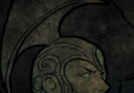
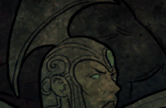
POE1 修正：只買當下最低價、payload 錯誤訊息分類、Win10 影像樣本更新
- pick_cheapest()：只鎖 rows[0]（sort 是 price asc，那就是當下最低價），
  已售出／已試過就結束本輪重新 search，不往下找第二便宜的
  （前幾筆若都被買走，往下找可能從 6c 變成 8c）
- get_payload() 失敗訊息分四類（連不上／逾時／非 200／payloadData 空），
  明確區分「自架 payload 服務掛了」與「查詢設定錯了」，
  不再只丟一串 traceback 讓人誤判成官方 API 被擋或腳本壞掉
- 官方 GET API 備援先註解保留、不啟用，維持 getPayloadByUrlV2 為唯一來源
- whisper 回 400 "must be in-game" 時直接中止，不再帶著同樣的錯誤空轉 40 輪
- 「完成一次購買」改為 buy_flow 成功才印（原本等 UI 逾時也會印，訊息會騙人）
- 影像辨識樣本換成 Win10 重抓的三組；舊的是在 Win7 機器抓的，座標已失效
  （倉庫格從 52.00×51.92 變成 53.17×53.42 px，click_slot 動態換算不用改）
- UA 更新為 Chrome/151（wholesalers.py / scavenger.py）

KB（poe1/QUERY.md）：
- 修正 hideout_token / whisper_token 的判準 —— 決定於該掛單是不是
  Instant Buyout，不是倉庫頁種類；securable 查詢可當作 hideout_token 必定存在
- 補上實測：securable 掛單的 stash 座標必定落在 12×12 內（40 筆，max 11）

diff --git a/script/wholesalers.py b/script/wholesalers.py
@@ -16,8 +16,9 @@ from stash_click import click_slot, go_hideout
 if not QUERY_IDS:
     raise RuntimeError("QUERY_IDS 為空，請於環境變數設定（本腳本只取第一個）")
 QUERY_ID = QUERY_IDS[0]
+ROUNDS = 40           # 總共輪詢幾輪
 POLL_INTERVAL = 2.0   # 每輪一般搜尋的間隔秒數（不求快；注意 trade API 有速率限制）
-MAX_FETCH = 10        # 一次 fetch 最多批次幾筆 listing
+MAX_FETCH = 10        # 一次 fetch 最多批次幾筆 listing（官方上限就是 10）
 
 # === Realm 設定（poe1 / poe2），沿用 setting.py ===
 # POE1: /api/trade/...            search/live URL 不含 realm 段、fetch 不帶 realm 參數
@@ -40,7 +41,7 @@ TRADE_URL = f"https://www.pathofexile.com/{API_BASE}/search/{LEAGUE_PATH}/{QUERY
 
 HEADERS = {
     "Origin": "https://www.pathofexile.com",
-    "User-Agent": "Mozilla/5.0 (Macintosh; Intel Mac OS X 10_15_7) AppleWebKit/537.36 (KHTML, like Gecko) Chrome/142.0.0.0 Safari/537.36",
+    "User-Agent": "Mozilla/5.0 (Windows NT 10.0; Win64; x64) AppleWebKit/537.36 (KHTML, like Gecko) Chrome/151.0.0.0 Safari/537.36",
     "Cookie": f"POESESSID={POESESSID}",
 }
 HEADERS_XHR = {
@@ -48,13 +49,73 @@ HEADERS_XHR = {
     "X-Requested-With": "XMLHttpRequest",
 }
 
+# === 錯誤訊息：把「自架服務掛了」跟「官方 API 有問題」明確區分開 ===
+def _print_service_error(url, what, cause):
+    print("=" * 78)
+    print(f"[ERR] 取不到查詢 payload：{what}")
+    print(f"      服務位址：{url}")
+    print(f"      可能原因：{cause}")
+    print("      ── 這是 SERVICE_HOST 指到的『自架 payload 服務』(app.py) 的問題，")
+    print("         不是官方交易 API 擋你，也不是這支腳本的邏輯有錯。")
+    print("      ── 先確認那台服務（Docker container）還活著、對外 port 有開。")
+    print("=" * 78)
+
 
 # === 取得查詢 payload（來自雲端 payload 服務，內部走 Redis）===
 def get_payload(client):
+    """向雲端 payload 服務取查詢 payload；失敗時印出可直接對症的訊息並回 None。"""
     url = SERVICE_HOST.rstrip("/") + "/trade/getPayloadByUrlV2"
-    resp = client.post(url, json={"siteUrl": TRADE_URL}, timeout=30.0)
-    resp.raise_for_status()
-    return resp.json().get("payloadData")
+
+    try:
+        resp = client.post(url, json={"siteUrl": TRADE_URL}, timeout=30.0)
+    except httpx.TimeoutException:
+        _print_service_error(url, "連線逾時（30 秒內沒有任何回應）",
+                             "服務卡住、或防火牆把封包丟掉了")
+        return None
+    except httpx.RequestError as e:
+        _print_service_error(url, f"連不上（{type(e).__name__}: {e}）",
+                             "服務沒有啟動、port 沒開、或 SERVICE_HOST 設錯了")
+        return None
+
+    if resp.status_code != 200:
+        _print_service_error(url, f"服務回了 HTTP {resp.status_code}",
+                             "服務活著但處理失敗，請看服務端 log")
+        print(f"      回應內容：{(resp.text or '')[:200]}")
+        return None
+
+    try:
+        payload = resp.json().get("payloadData")
+    except Exception:
+        _print_service_error(url, "回應不是合法的 JSON",
+                             "SERVICE_HOST 可能指到了別的服務")
+        print(f"      回應內容：{(resp.text or '')[:200]}")
+        return None
+
+    if not payload:
+        # 這種情況服務是活的，問題在查詢本身，訊息要往另一個方向指
+        print("=" * 78)
+        print("[ERR] payload 服務有正常回應，但查不到這個查詢的 payload（payloadData 是空的）")
+        print(f"      服務位址：{url}")
+        print(f"      查詢網址：{TRADE_URL}")
+        print("      ── 服務本身沒問題。請檢查 QUERY_IDS / LEAGUE / REALM 是否設對，")
+        print("         以及該查詢是否真的存在（用瀏覽器打開上面那個網址看看）。")
+        print("=" * 78)
+        return None
+
+    return payload
+
+
+# === 備援：雲端服務掛掉時，直接跟官方 GET 已存搜尋 API 要 query 定義 ===
+# 2026-08-09 使用者決定先不啟用，維持 getPayloadByUrlV2 為唯一來源；日後視情況再導入。
+# 啟用方式：解除註解，並在 get_payload() 失敗的分支改成 return get_payload_from_official(client)
+# def get_payload_from_official(client):
+#     """GET /api/trade/search/{league}/{id} 會回 {"id", "query"}（省略 null 等預設值，不影響查詢），
+#     補上 sort 後即可直接 POST 給搜尋 API。與服務端 content/trade_api.py 同一支端點。"""
+#     url = f"{SEARCH_URL}/{QUERY_ID}" + ("?realm=poe2" if REALM == "poe2" else "")
+#     resp = client.get(url, headers=HEADERS_XHR, timeout=30.0)
+#     resp.raise_for_status()
+#     query = resp.json().get("query")
+#     return {"query": query, "sort": {"price": "asc"}} if query else None
 
 
 # === 一般搜尋：POST 完整 payload，回傳 (query_id, [result hashes]) ===
@@ -79,6 +140,35 @@ def whisper(client, hideout_token):
     return client.post(WHISPER_URL, headers=HEADERS_XHR, json={"token": hideout_token}, timeout=30.0)
 
 
+# === 只鎖定最便宜的那一筆 ===
+def pick_cheapest(rows, seen):
+    """回傳 (row, hideout_token)；最便宜那筆不能買就回 (None, None)，讓上層重新搜尋。
+
+    **不往下找第二便宜的。** payload 的 sort 是 `price: asc`，`rows[0]` 就是這一秒
+    全站最低價；往下找等於買貴（極端情況前 10 筆都被買走，第 11 筆可能已從 6c 變 8c）。
+    所以第一筆不能買就直接結束本輪、重新 search + fetch，確保每次出手都是當下最低價。
+
+    本腳本的前提是查詢條件設為 **Instant Buyout（`status.option = "securable"`）**，
+    這種掛單一定帶 `hideout_token`（可直接傳送過去自助購買，賣家離線也能買），
+    所以這裡直接取值不做退路。若查詢沒設成 securable，可能撈到只有 `whisper_token`
+    的掛單（例如通貨頁那類，那支 API 只是發密語給賣家、不會傳送），會在這裡 KeyError。
+    """
+    row = rows[0] if rows else None
+    if not row or not row.get("listing"):
+        print("[SKIP] 最便宜的那筆已消失 → 重新搜尋")
+        return None, None
+
+    listing = row["listing"]
+    if row.get("gone"):         # 已被買走/失效（trade 網頁呈 disable 狀態）
+        print("[SKIP] 最便宜的那筆已被買走 → 重新搜尋")
+        return None, None
+    if row.get("id") in seen:   # 這一輪剛處理過，索引還沒更新
+        print("[SKIP] 最便宜的那筆已經試過 → 重新搜尋")
+        return None, None
+
+    return row, listing["hideout_token"]
+
+
 # === 傳送成功後的影像辨識 + 自動購買（與 scavenger.py 相同）===
 def buy_flow(stash_x, stash_y):
     # 影像辨識等商店 UI；逾時(非 loading 階段 >30s)則強制返回藏身處，進下一輪
@@ -92,55 +182,49 @@ def buy_flow(stash_x, stash_y):
 
 
 def main():
-    print(f"[CFG] REALM={REALM} LEAGUE={LEAGUE}")
+    print(f"[CFG] REALM={REALM} LEAGUE={LEAGUE} QUERY_ID={QUERY_ID}")
     print(f"[CFG] SEARCH_URL={SEARCH_URL}")
 
-    seen = set()  # 已嘗試 whisper 過的 listing id，避免每輪重複密語同一筆
+    seen = set()  # 已處理過的 listing id，避免每輪重複密語／重複判斷同一筆
 
     with httpx.Client(timeout=30.0) as client:
         # 1) 先向雲端 payload 服務取得查詢 payload（只取一次）
-        try:
-            payload = get_payload(client)
-        except Exception:
-            traceback.print_exc()
-            print("[ERR] 呼叫 payload 服務失敗，請確認 SERVICE_HOST 與雲端服務狀態")
-            return
+        #    失敗原因已由 get_payload() 分類印出，這裡直接結束就好
+        payload = get_payload(client)
         if not payload:
-            print("[ERR] 取不到 payload，請確認 TRADE_URL 是否正確、Redis 是否已有對應資料")
             return
         print("[OK] 已取得查詢 payload，開始輪詢一般搜尋...")
 
+        bought = 0
         # 2) 持續輪詢一般搜尋
-        for times in range(40):
+        for times in range(ROUNDS):
             try:
                 query_id, hashes = search(client, payload)
-                rows = fetch(client, query_id, hashes) if hashes else []
+                if not hashes:
+                    continue
+                rows = fetch(client, query_id, hashes)
+                if not rows:
+                    continue
 
-                # 找第一筆「還沒嘗試過」且有 listing 的結果
-                target = None
-                for row in rows:
-                    if not row or not row.get("listing"):
-                        continue
-                    if row.get("gone"):     # 已被買走/失效（trade 網頁呈 disable 狀態），跳過
-                        continue
-                    if row.get("id") in seen:
-                        continue
-                    target = row
-                    break
-
+                target, token = pick_cheapest(rows, seen)
                 if target is None:
-                    time.sleep(POLL_INTERVAL)
                     continue
 
                 listing = target["listing"]
                 seen.add(target["id"])
                 stash_x = listing["stash"]["x"]
                 stash_y = listing["stash"]["y"]
-                hideout_token = listing["hideout_token"]
+                price = listing.get("price") or {}
 
-                wresp = whisper(client, hideout_token)
+                wresp = whisper(client, token)
                 print(f"[WHISPER] <{wresp.status_code}> {(wresp.text or '')[:120]} | "
-                      f"seller={listing['account']['name']} stash=({stash_x},{stash_y})")
+                      f"seller={listing['account']['name']} stash=({stash_x},{stash_y}) "
+                      f"price={price.get('amount')} {price.get('currency')} fee={listing.get('fee')}")
+
+                # 角色不在線上就不用再跑了，每一筆都會是同樣的 400
+                if wresp.status_code == 400 and "in-game" in (wresp.text or "").lower():
+                    print("[ERR] 帳號目前不在遊戲中，無法傳送。請先登入角色再執行。")
+                    return
 
                 # 判定傳送是否成功
                 success = False
@@ -152,13 +236,17 @@ def main():
 
                 if success:
                     print("[BUY] 傳送成功 → 執行影像辨識購買流程...")
-                    buy_flow(stash_x, stash_y)
-                    print(f"[BUY] 完成一次購買 ({times+1})")
+                    if buy_flow(stash_x, stash_y):
+                        bought += 1
+                        print(f"[BUY] 完成一次購買（累計 {bought} 件，第 {times+1} 輪）")
 
             except Exception:
                 traceback.print_exc()
+            finally:
+                # 不論這輪是買到、跳過還是出錯，都固定間隔再進下一輪
+                time.sleep(POLL_INTERVAL)
 
-            time.sleep(POLL_INTERVAL)
+        print(f"[DONE] 共 {ROUNDS} 輪，成功購買 {bought} 件")
 
 
 if __name__ == "__main__":

diff --git a/script/scavenger.py b/script/scavenger.py
@@ -41,7 +41,7 @@ WS_URL = f"wss://www.pathofexile.com/api/{API_BASE}/live/{WS_LEAGUE_PATH}/{QUERY
 
 HEADERS = {
     "Origin": "https://www.pathofexile.com",
-    "User-Agent": "Mozilla/5.0 (Macintosh; Intel Mac OS X 10_15_7) AppleWebKit/537.36 (KHTML, like Gecko) Chrome/142.0.0.0 Safari/537.36",
+    "User-Agent": "Mozilla/5.0 (Windows NT 10.0; Win64; x64) AppleWebKit/537.36 (KHTML, like Gecko) Chrome/151.0.0.0 Safari/537.36",
     "Cookie": f"POESESSID={POESESSID}"
 }
 

diff --git a/.claude/skills/poe-trade-query/poe1/QUERY.md b/.claude/skills/poe-trade-query/poe1/QUERY.md
@@ -30,7 +30,7 @@ POE1 lives under `/trade/` on the same site as POE2's `/trade2/`. The transport 
 - **搜尋回應存 100 個 result hash**（與 POE2 相同）——深抓價格階梯可用後段。
 - **`status.option` 五個值，與 POE2 完全相同**：`securable`（Instant Buyout）/ `available`（Instant Buyout and In Person）/ `onlineleague`（In Person, Online in League）/ `online`（In Person, Online）/ `any`。
 - **限流與 POE2 共用同一個池**（實測交錯打兩款遊戲，`trade-search-request-limit` 的 IP 計數連續累加）——詳見 [`../common/tricks.md`](../common/tricks.md)。
-- **fetch 回傳結構**：`item.extended` 有 `ev`/`ar`/`es`/`ev_aug`/`base_defence_percentile`/`hashes`/`text`；`item.sockets` 存在（POE1 的插槽/連線系統）；`listing.price` 形如 `{type:'~b/o', amount:7, currency:'chaos'}`；有 `whisper_token`／`hideout_token`；稀有裝另有 `note`（賣家標價註記）、`requirements`、`properties`。
+- **fetch 回傳結構**：`item.extended` 有 `ev`/`ar`/`es`/`ev_aug`/`base_defence_percentile`/`hashes`/`text`；`item.sockets` 存在（POE1 的插槽/連線系統）；`listing.price` 形如 `{type:'~b/o', amount:7, currency:'chaos'}`；有 `whisper_token` **或** `hideout_token`（二擇一，見下方 whisper 那節）；稀有裝另有 `note`（賣家標價註記）、`requirements`、`properties`。
 
 ### 詞綴回傳格式（稀有鞋實測，含 crafted）
 
@@ -58,7 +58,12 @@ POE1 lives under `/trade/` on the same site as POE2's `/trade2/`. The transport 
 - 每條都自帶 `mods[].tier` 與 `magnitudes` 的 roll 區間，可直接判斷這條是不是接近該階上限，不必另外查表。
 - `extended.mods` 在這件樣本是**空的**（`{}`）——階級資訊在各詞綴物件裡，不在 extended 底下。
 - **描述文字是純文字，沒有內嵌 wiki 連結括號**（`+31% to Fire Resistance`、`+128 to maximum Life`）。這件樣本的 5 條詞綴都沒有；若之後遇到含括號的再補記。
-- **whisper / 前往藏身處：`POST /api/trade/whisper`**，body `{"token":"<JWT>"}`（token 取自 fetch 回傳的 `listing.whisper_token` / `listing.hideout_token`）。角色**離線時回 `400 "Your account must be in-game to use this feature"`**，不會對賣家送出任何東西；線上時會真的執行。實作範例見 [`script/scavenger.py`](../../../../script/scavenger.py)。
+- **whisper / 前往藏身處：`POST /api/trade/whisper`**，body `{"token":"<JWT>"}`。角色**離線時回 `400 "Your account must be in-game to use this feature"`**，不會對賣家送出任何東西；線上時會真的執行（實測回 `{"success":true}`，約 1.9 秒）。實作範例見 [`script/wholesalers.py`](../../../../script/wholesalers.py)。
+- **POE1 的 token 分兩種，同一筆掛單只會有其中一種**，決定於**該掛單是不是 Instant Buyout（離線交易）**，不是倉庫頁種類（2026-08 實測 71 筆）：
+  - **`hideout_token`**（JWT `tok:"hideout"`）：Instant Buyout 掛單，也就是 `status.option = "securable"` 搜得到的那些。送出後**直接把你傳送到賣家藏身處自助購買**，賣家 `account.online` 為 `null`（離線）照樣成立 —— 這就是「離線交易」。這類掛單另有 `fee` 欄位（6c 的 T16 地圖 fee=810）。JWT 效期 300 秒（`exp - iat`），但正常流程 fetch 完馬上就送出，碰不到。
+  - **`whisper_token`**：非 Instant Buyout 的舊式掛單。這支只是**發密語給賣家**，不會傳送，所以沒有自動購買的觸發點。**使用者說明（2026-08）：自從 Instant Buyout 上線後，實務上已經沒有玩家在用舊的密語模式了**，所以自動化腳本只要把查詢設成 `securable`，就可以當作 `hideout_token` 必定存在（`listing["hideout_token"]` 直接取值即可）。
+  - POE2 則一律是 `hideout_token`（且沒有 `whisper_token`）。
+- **Instant Buyout 掛單的倉庫座標一定落在 12×12 一般倉庫頁內**（實測 40 筆 securable 掛單，`stash.x`/`stash.y` 最大值都是 11，零例外）—— 四倍頁那類版面不支援 Instant Buyout，所以自動點格的腳本不必為它們做特例。反之若查詢沒設 securable，撈到的一般掛單就會出現 `(182,0)`、`(16,20)` 這種命運卡片頁/四倍頁座標。
 
 ### UI 送出的實際請求（攔截 `window.fetch` / `XHR` 實測）
 
